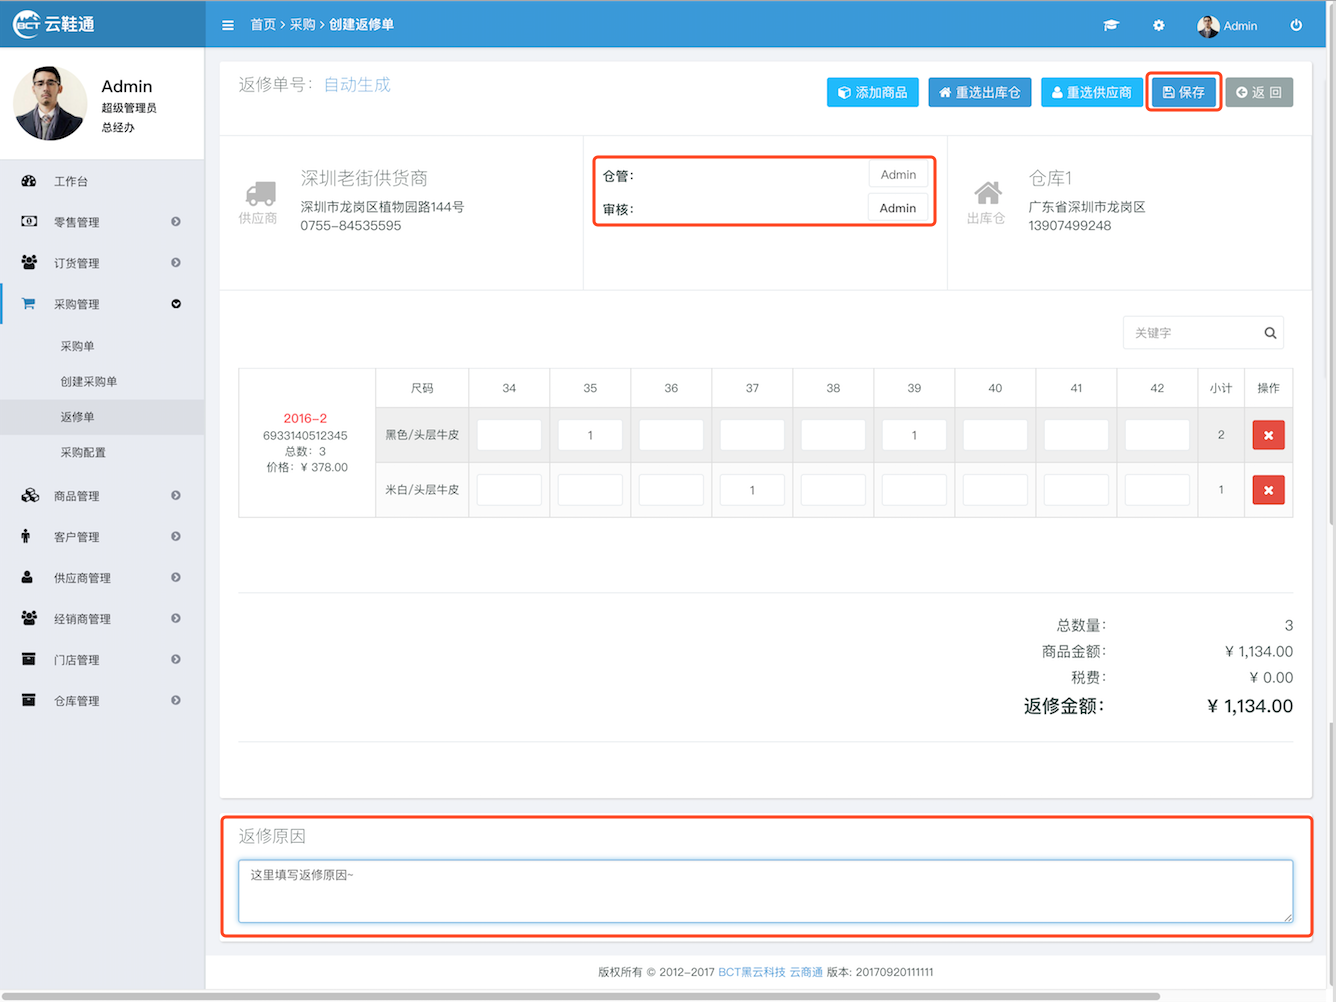
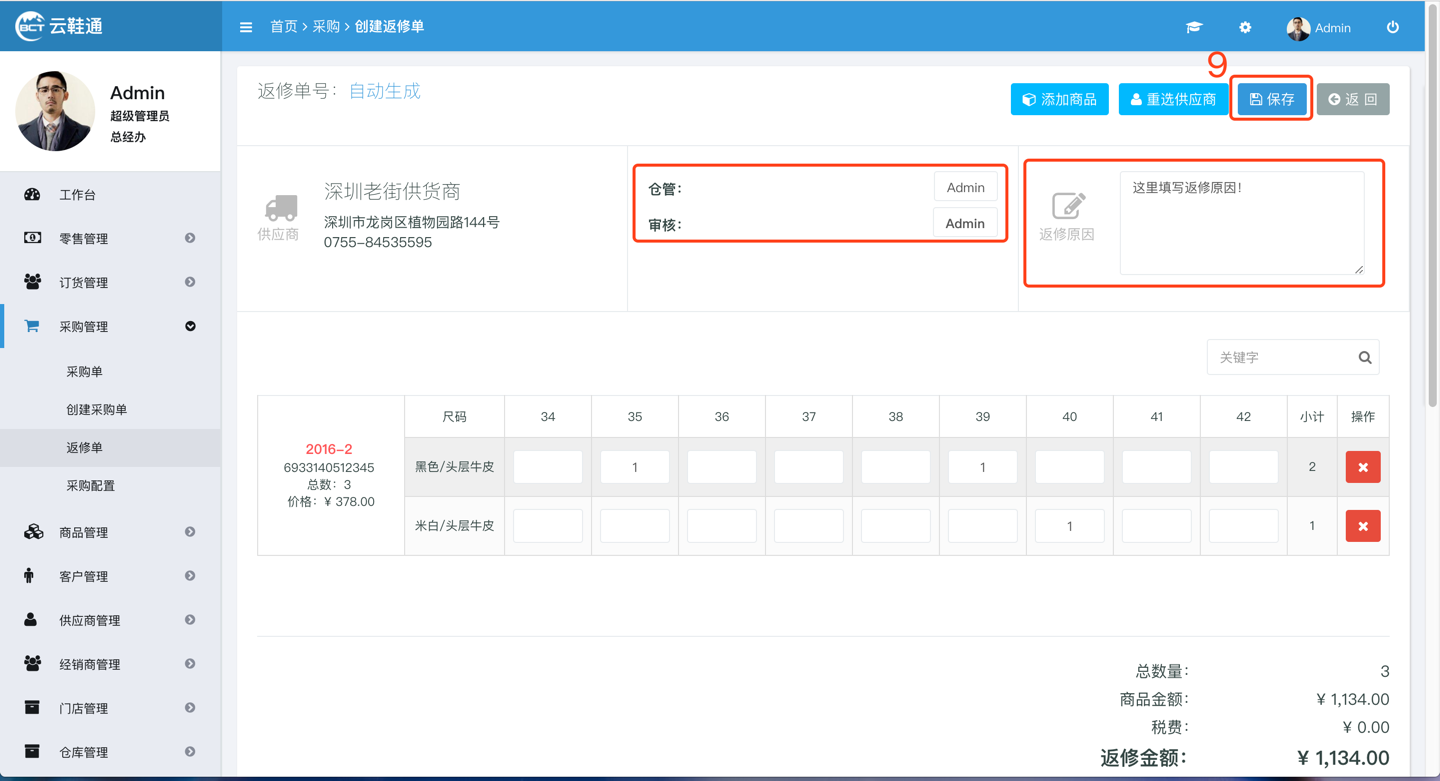
Creates assets/cjcgfxd-10.png
Auto commit by GitBook Editor

diff --git a/cai-gou/fan-xiu-liu-cheng.md b/cai-gou/fan-xiu-liu-cheng.md
@@ -14,15 +14,11 @@
 
 ———————————————————————————
 
-已自动添加到返修单，如下图：![](/assets/cjcgfxd-4.png)_\*1、供应商为商品在添加时绑定的供应商（参考【商品】），系统会自动选择，若需要更换供应商，则点击【重选供应商】_
+已自动添加到返修单，如下图：![](/assets/cjcgfxd-4.png)_\*1、供应商为商品在添加时绑定的供应商（参考【_[_商品_](/shang-pin-guan-li/shang-pin.md)_】），系统会自动选择，若需要更换供应商，则点击【重选供应商】_
 
 ———————————————————————————
 
-选择返修鞋所在的仓库，点击【选择出库仓】![](/assets/cjcgfxd-5.png)
-
-———————————————————————————
-
-在页面底部填写退货原因，选择处理该返修单的仓管和审核人员（主管），点击【保存】![](/assets/cjcgfxd-6.png)_\*1、审核人在后面流程中控制审核步骤，只有该单选择的审核人或【超级管理员】的账号，才能对该单审核。_
+填写返修原因，选择处理该返修单的仓管和审核人员（主管），点击【保存】![](/assets/cjcgfxd-6.png)_\*1、审核人在后面流程中控制审核步骤，只有该单选择的审核人或【超级管理员】的账号，才能对该单审核。_
 
 ———————————————————————————
 
@@ -33,14 +29,14 @@
 
 ———————————————————————————
 
-审核通过后，接下来就是入库操作了，如下图：![](/assets/cjcgfxd-9.png)_\*入库方式有两种：  
-1、【一键入库】是便捷性操作，不走入库流程，系统自动创建入库单，并且_将_对应商品的库存数量增加。  
-2、【入库】指的是重新创建入库单，然后一步步走入库流程（参考【出人库流程】）。  
-3、若您的返修单一次性入库，可以选择【一键入库】方式，若订单需要分批入库，可以选择【入库】走入库流程，然后选择需要入库的商品入库即可，这极大方便了记录出库数据！_
+审核通过后，接下来就是出库操作了，如下图：![](/assets/cjcgfxd-9.png)_\*出库方式有两种：  
+1、【一键出库】是便捷性操作，不走出库流程，系统自动创建出库单，并且_将_对应商品的库存数量减少。  
+2、【出库】指的是重新创建出库单，然后一步步走出库流程（参考【出人库流程】）。  
+3、若您的订单一次性出库，可以选择【一键出库】方式，若订单需要分批出库，可以选择【出库】走出库流程，然后选择需要出库的商品出库即可，这极大方便了记录出库数据！_
 
-——————————————————————————————————————————————————————————————————————————
+———————————————————————————
 
-点击【一键入库】，选择对应的仓库，并且【确认】操作后，系统自动创建入库单，并且直接入库。然后即可点击【完成返修】，就完成返修操作了。如下图：![](/assets/cjlsfxd-7.png)![](/assets/cjlsfxd-8.png)
+点击【一键入库】，选择对应的仓库，并且【确认】操作后，系统自动创建入库单，并且直接入库。然后即可点击【完成返修】，就完成返修操作了。如下图：![](/assets/cjcgfxd-10.png)
 
 ### 2、通过零售订单创建销售返修单（推荐）
 
